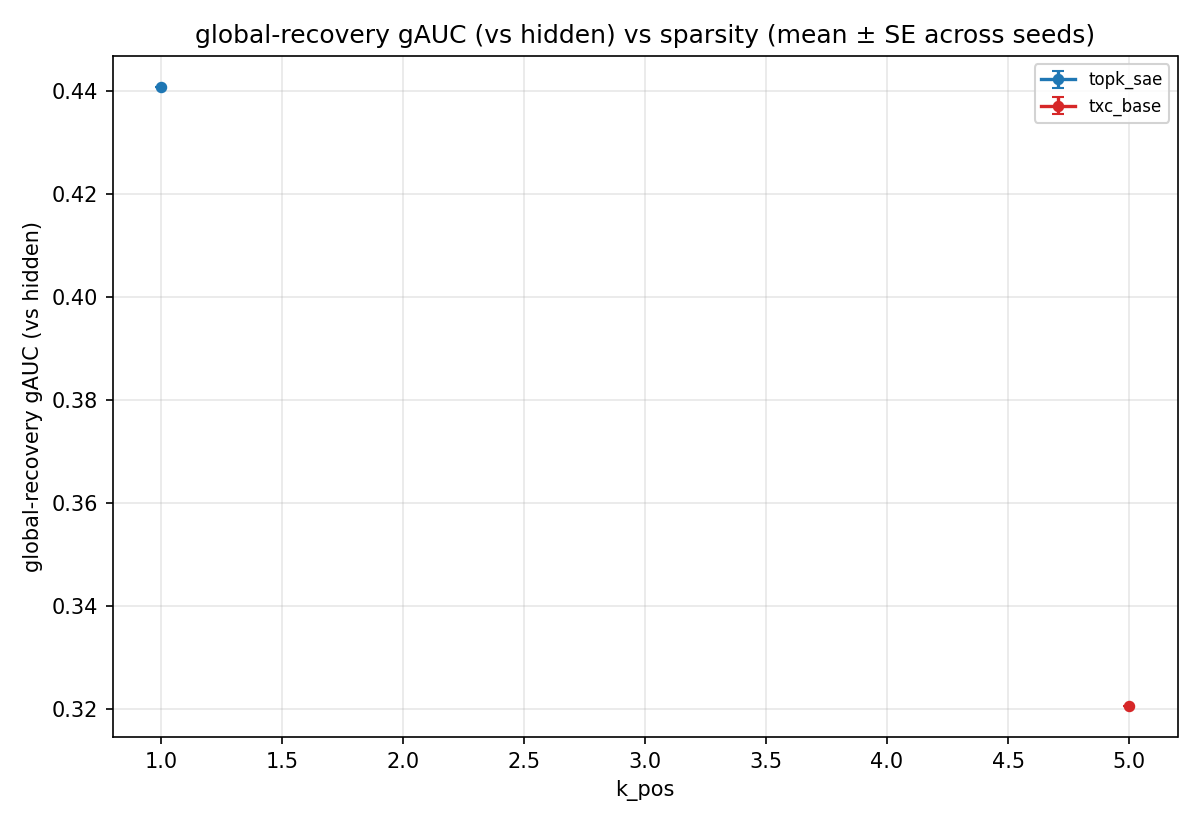
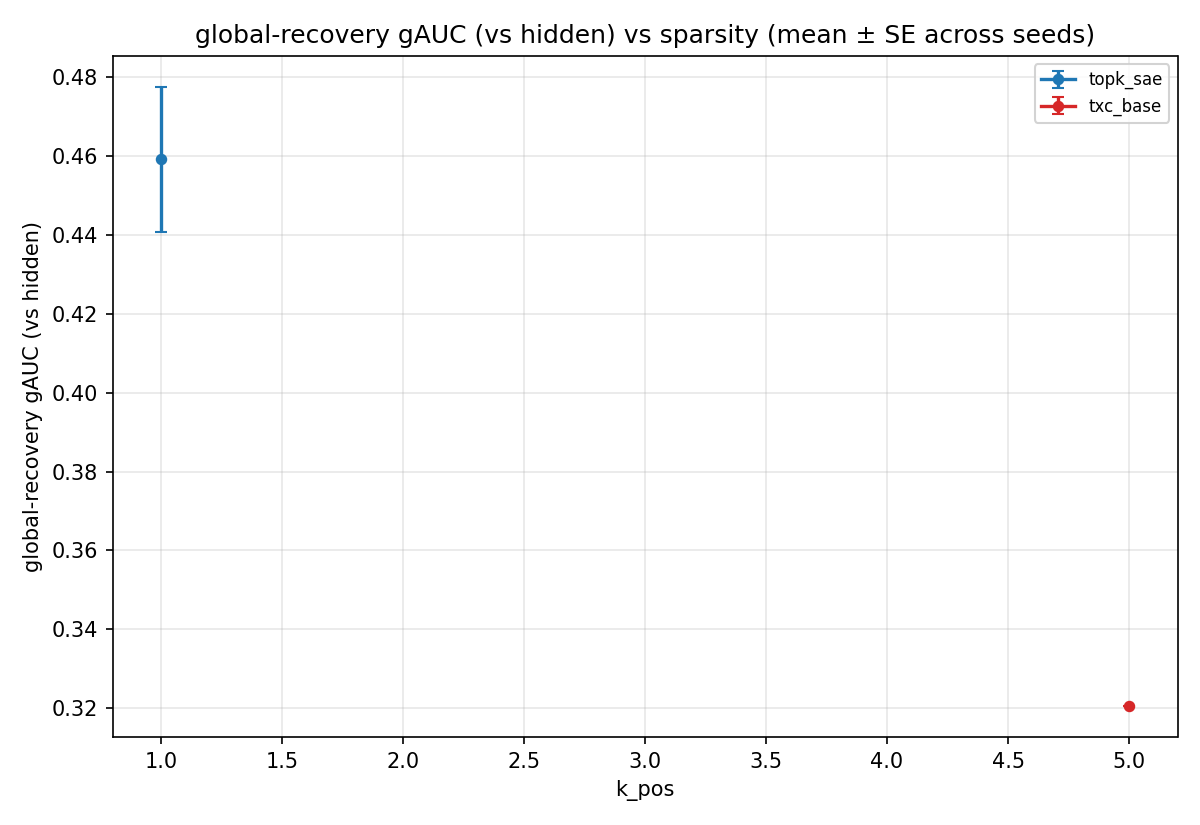
c1+c2 paper auto: refresh synthetic bundles (c1=, c2= leaderboard rows)
Auto-generated by purified/scripts/synthetic_paper_renderer.py.
Inputs: results/leaderboard.jsonl filtered to component in (c1,c2)
with eval_cfg._full_suite=true (the c{1,2}_synthetic_*_full driver flag).

diff --git a/purified/docs/components/c2_paper_results.md b/purified/docs/components/c2_paper_results.md
@@ -1,6 +1,6 @@
 # C2 Synthetic Coupled — paper-ready results (auto-generated)
 
-_Last refreshed: 2026-05-06T02:44:48+00:00_
+_Last refreshed: 2026-05-06T03:09:52+00:00_
 
 ## Setup
 
@@ -10,13 +10,13 @@ _Last refreshed: 2026-05-06T02:44:48+00:00_
 - Companion: eAUC — recovery of the M=20 emission directions.
 - Driver: `experiments/c2_synthetic_coupled_full/run.py` (isolated `act_cache_key` via `temp_bench.data.toy_full.api:coupled_hmm`).
 
-Currently 2 cells across 2 (arch, T) configurations; seeds-per-cell range = [1].
+Currently 3 cells across 2 (arch, T) configurations; seeds-per-cell range = [1, 2].
 
 ## gAUC headline (peak gAUC over k_pos)
 
 | arch | T | k\* | gAUC (mean ± SE) | n seeds |
 |------|---|----|---------------------------|---------|
-| `topk_sae` | — | 1 | 0.441 ± 0.000 | 1 |
+| `topk_sae` | — | 1 | 0.459 ± 0.018 | 2 |
 | `txc_base` | — | 5 | 0.320 ± 0.000 | 1 |
 
 ![c2_gauc_vs_k](c2_paper_assets/c2_gauc_vs_k.png)
@@ -25,7 +25,7 @@ Currently 2 cells across 2 (arch, T) configurations; seeds-per-cell range = [1].
 
 | arch | T | k\* | eAUC (mean ± SE) | n seeds |
 |------|---|----|---------------------------|---------|
-| `topk_sae` | — | 1 | 0.315 ± 0.000 | 1 |
+| `topk_sae` | — | 1 | 0.314 ± 0.002 | 2 |
 | `txc_base` | — | 5 | 0.271 ± 0.000 | 1 |
 
 ![c2_eauc_vs_k](c2_paper_assets/c2_eauc_vs_k.png)
@@ -34,12 +34,12 @@ Currently 2 cells across 2 (arch, T) configurations; seeds-per-cell range = [1].
 
 | arch (T) | k=1 | k=5 |
 |---|---|---|
-| `topk_sae` | 0.441 | — |
+| `topk_sae` | 0.459 | — |
 | `txc_base` | — | 0.320 |
 
 ## Per-cell mean — eAUC
 
 | arch (T) | k=1 | k=5 |
 |---|---|---|
-| `topk_sae` | 0.315 | — |
+| `topk_sae` | 0.314 | — |
 | `txc_base` | — | 0.271 |

diff --git a/purified/docs/components/c1_paper_results.md b/purified/docs/components/c1_paper_results.md
@@ -1,6 +1,6 @@
 # C1 Synthetic TopK — paper-ready results (auto-generated)
 
-_Last refreshed: 2026-05-06T02:44:48+00:00_
+_Last refreshed: 2026-05-06T03:09:51+00:00_
 
 ## Setup
 
